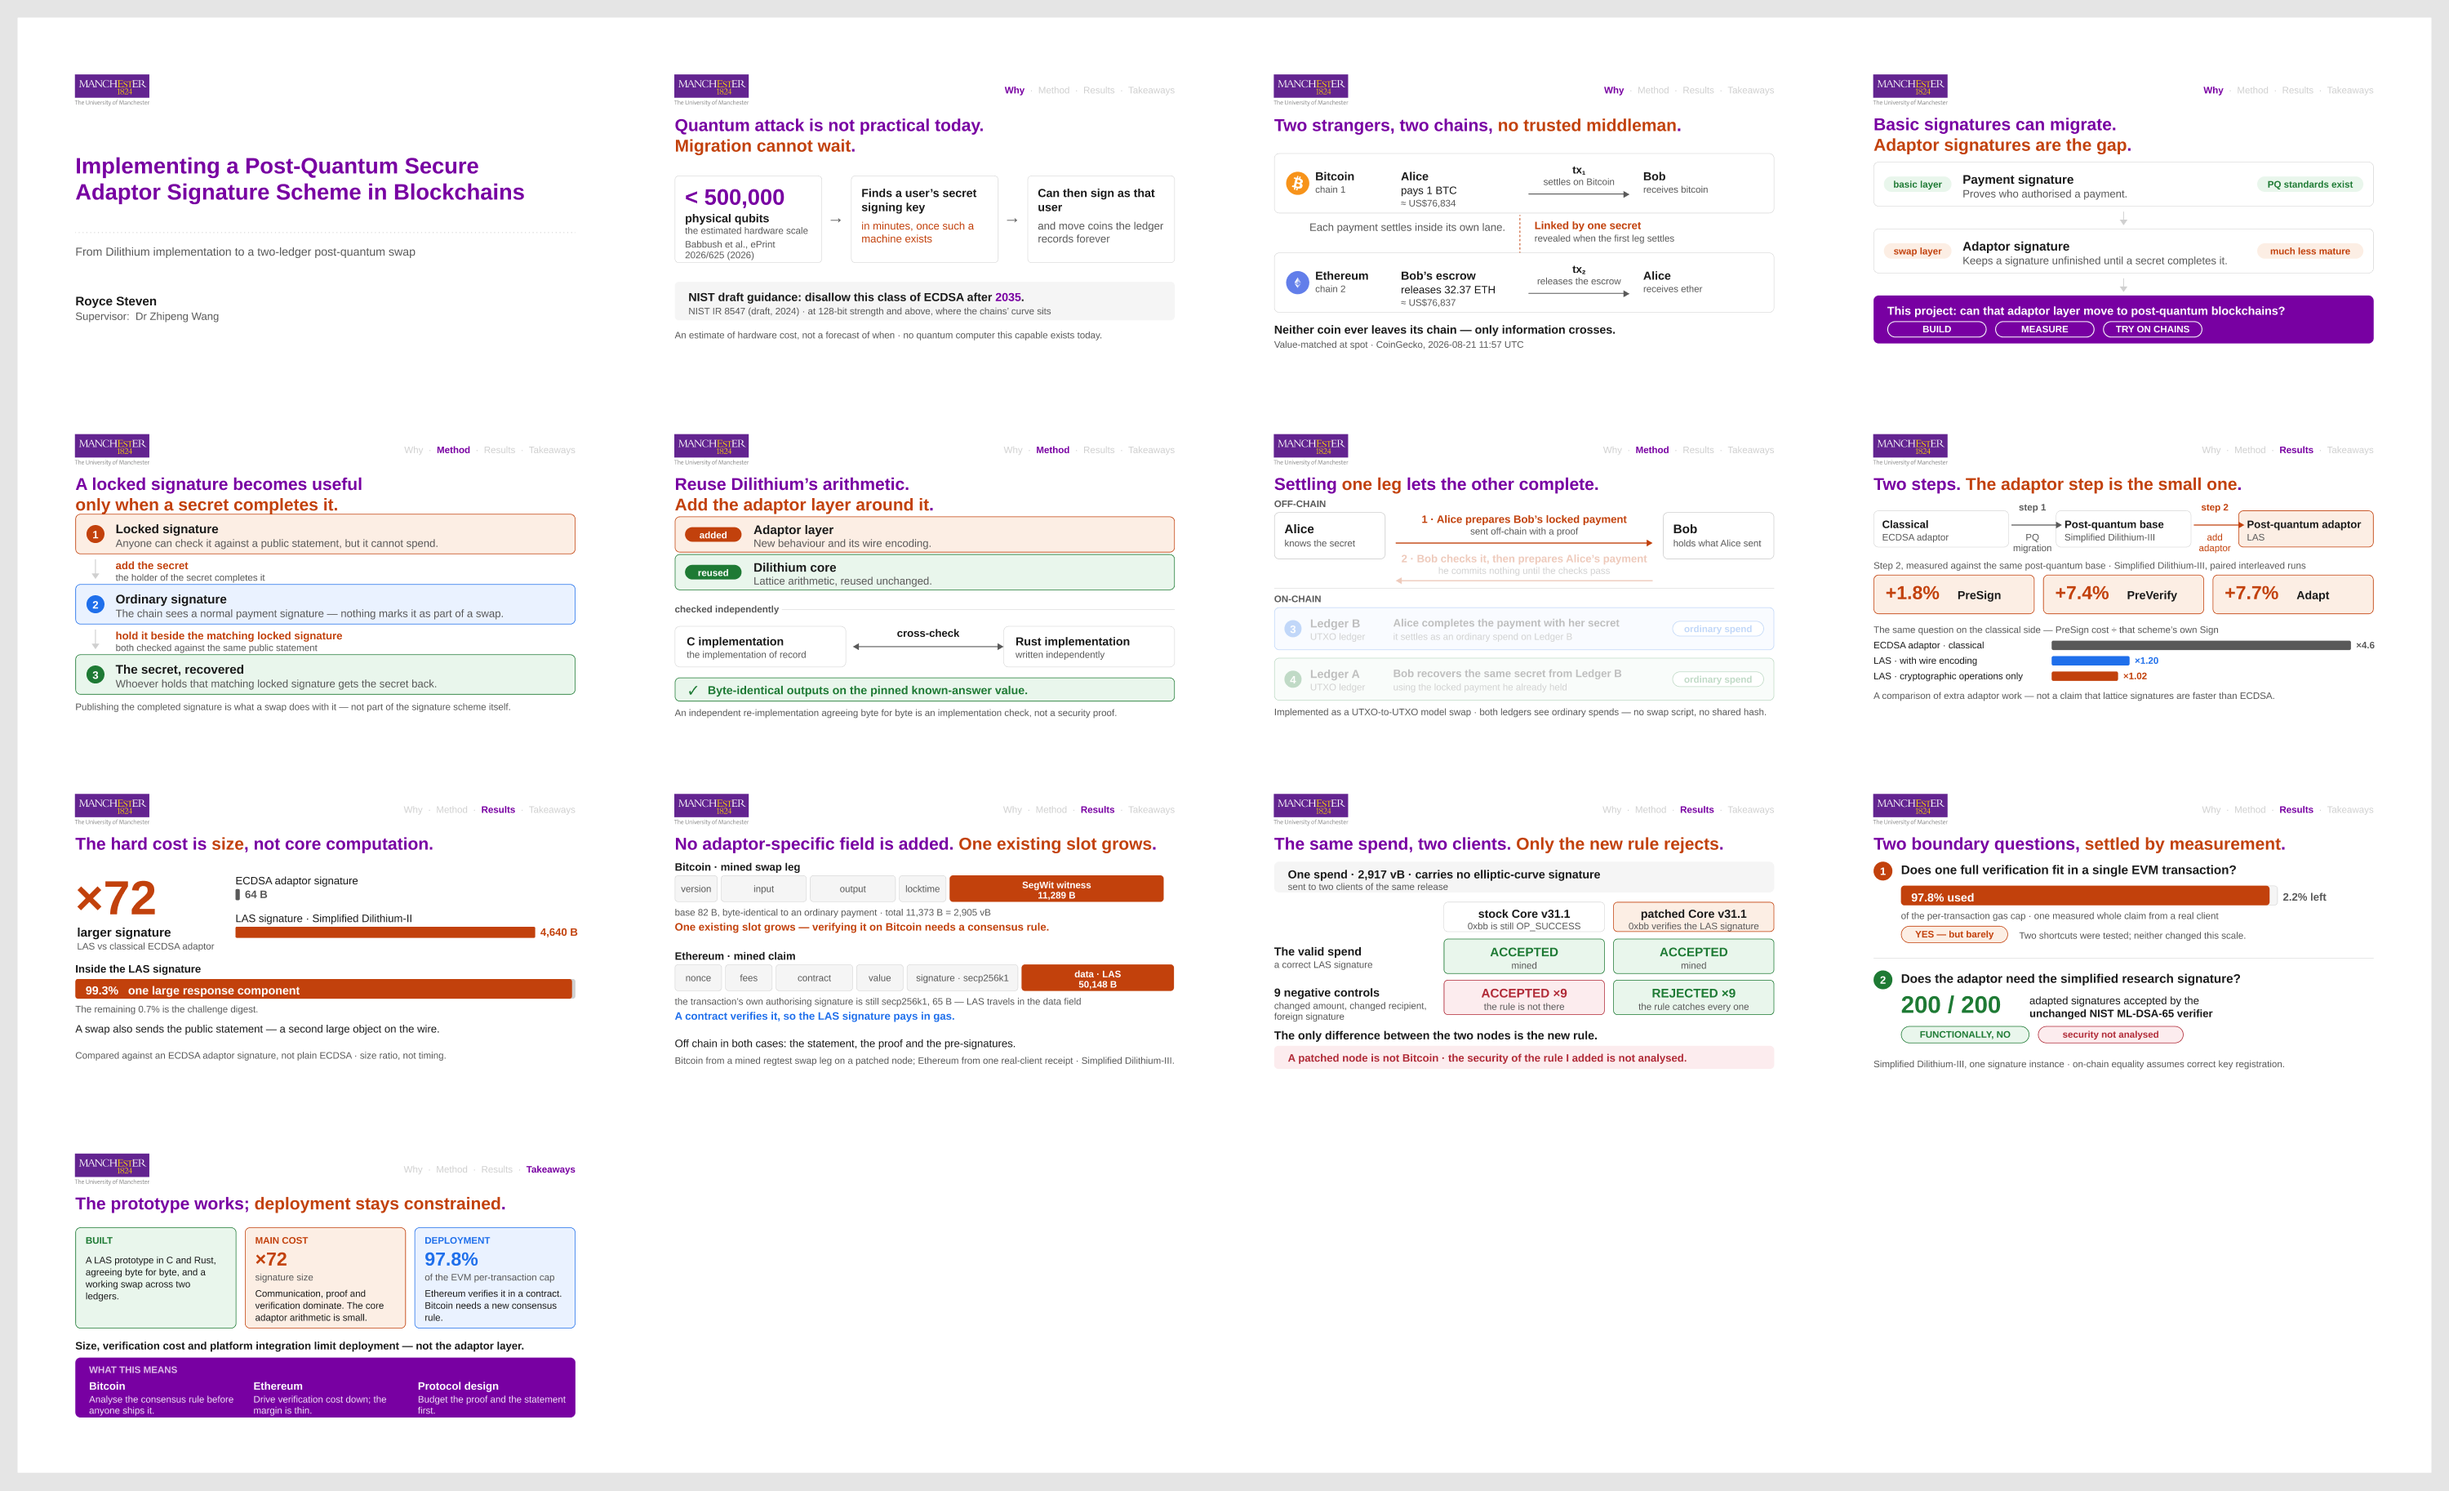
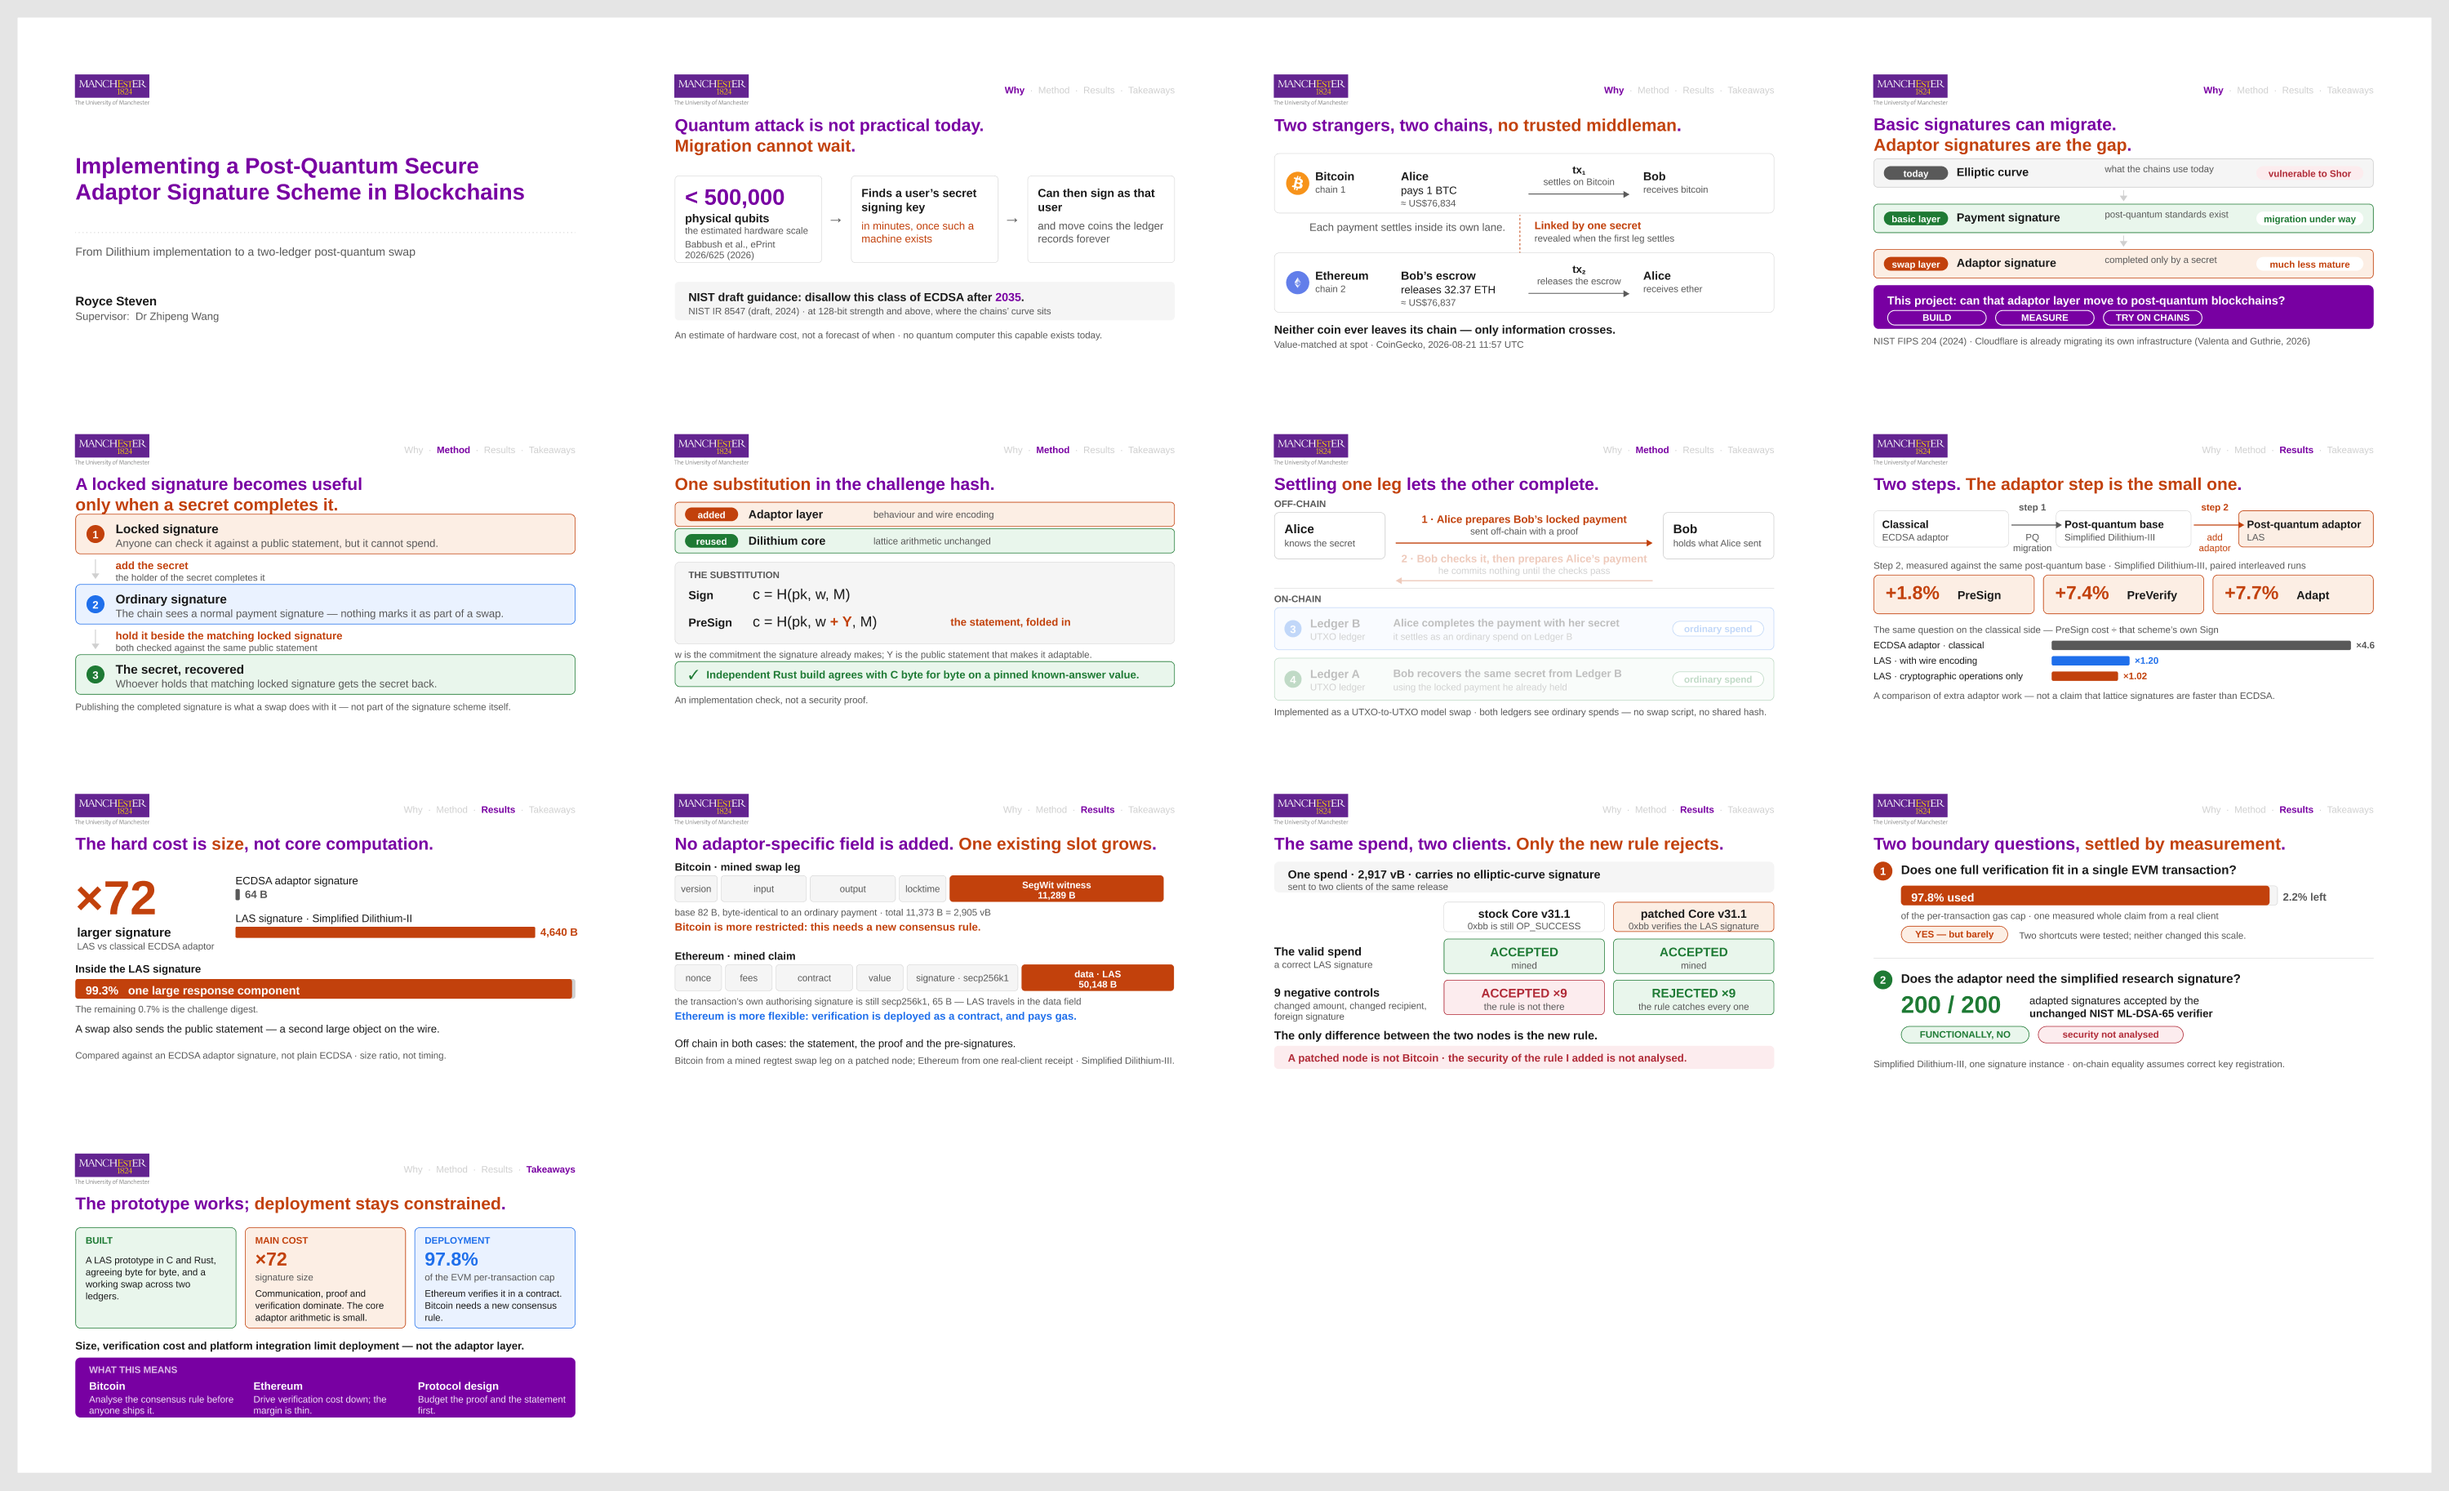
slide 1

diff --git a/report/slides/FIGMA_DECK_SCRIPT.md b/report/slides/FIGMA_DECK_SCRIPT.md
@@ -40,7 +40,7 @@ payment.
 ---
 
 ## 04 · Why: the gap
-**SPOKEN:** So where is the gap? The signature authorising an ordinary payment already has post-quantum standards; the one that makes a swap work does not. Other advanced types are being built; the adaptor case much less so. Hence three questions: can we build it, what does it cost, and can a chain verify it?
+**SPOKEN:** So where is the gap? What the chains sign with today is vulnerable to Shor. Its replacement is already standardised, and migration is under way well beyond blockchains: Cloudflare is already moving its own infrastructure. But the signature that makes a swap work is much less mature. Other advanced types are being built; the adaptor case much less so. Hence: can we build it, what does it cost, and can a chain verify it?
 
 **BACKUP:** Why pay for this rather than a hash-time-locked contract? The hash lock shows — a
 script on both chains, the same hash on both, and larger transactions. An adaptor signature
@@ -60,7 +60,7 @@ primitive of the scheme.
 ---
 
 ## 06 · Method: what I built
-**SPOKEN:** The implementation boundary matters. I did not rewrite lattice arithmetic — I reused Dilithium's and added the adaptor behaviour and its encoding around it. I then built it again in Rust, independently; the two agree byte for byte on a pinned known-answer value. That is an implementation check, not a security proof.
+**SPOKEN:** Here is the method itself. The lattice core is reused; the adaptor layer is what I added. What makes a signature adaptable is a single substitution: the ordinary signature hashes its commitment, while the pre-signature hashes that commitment plus the public statement. That one addition is the whole mechanism. I then built the scheme again in Rust, independently, and the two agree byte for byte on a pinned known-answer value: an implementation check, not a security proof.
 
 **BACKUP:** The pinned value covers packed outputs over four fixed vectors — public key, secret
 key, signature, pre-signature and the adapted signature. Pre-verification and extraction are
@@ -79,7 +79,7 @@ pre-signature, and Bob must then complete Alice's pre-signature with the recover
 ---
 
 ## 08 · Result: cost in time
-**SPOKEN:** Now the cost — and it depends entirely on what it is measured against. Step one, classical to a post-quantum base, is the expensive one, and organisations are already taking it. Step two is what I measured: adding the adaptor layer to that same base, under eight percent per operation. The classical adaptor costs four-point-six times its own signing. So relative to its own base ours is cheaper — though in absolute time a lattice operation still costs more.
+**SPOKEN:** Now the cost, and it depends entirely on what it is measured against. Step one, classical to a post-quantum base, is the expensive one. Step two is what I measured: adding the adaptor layer to that same base, under eight percent per operation. The classical adaptor costs four-point-six times its own signing. So relative to its own base ours is cheaper, though in absolute time a lattice operation still costs more.
 
 **BACKUP:** Overheads are paired and interleaved within each repetition; rejection attempts are
 counted directly, never inferred from a timing ratio. The classical figure is derived from a
@@ -90,7 +90,7 @@ FIPS 204 route measures a smaller signature.
 ---
 
 ## 09 · Result: cost in bytes
-**SPOKEN:** Size is where post-quantum actually hurts. Against a classical adaptor signature the lattice one is about seventy-two times larger — a size ratio, not a timing one. Almost all of it is one response component, and a swap also carries a public statement. So the dominant cost is communication, not adaptor arithmetic.
+**SPOKEN:** Size is where post-quantum actually hurts. Against a classical adaptor signature the lattice one is about seventy-two times larger, and that is a size ratio, not a timing one. So the dominant cost here is communication, not adaptor arithmetic.
 
 **BACKUP:** As objects: 4,640 bytes against a 64-byte compact ECDSA signature, at Simplified
 Dilithium-II. Inside a Bitcoin witness the classical item is DER-encoded and larger, which is
@@ -100,7 +100,7 @@ not plain ECDSA; the level match is engineering, not a proof.
 ---
 
 ## 10 · Result: what lands on chain
-**SPOKEN:** What actually lands on chain? On Bitcoin the fields are those of an ordinary payment; only the witness slot grows, which is why native verification needs a consensus rule. On Ethereum the authorising signature is still elliptic-curve, and the lattice signature rides in contract data, paying in gas. Neither adds an adaptor-specific field.
+**SPOKEN:** What actually lands on chain? On Bitcoin the fields are those of an ordinary payment; only the witness slot grows. Bitcoin is more restricted, because its fields cannot be modified, so verifying this natively needs a consensus rule. Ethereum is more flexible: the lattice signature rides in contract data, verified by a contract at a gas cost. Neither venue adds an adaptor-specific field.
 
 **BACKUP:** The Bitcoin column is read from a mined regtest swap leg and reconstructed against
 BIP144 weight accounting; the Ethereum figure is one real-client receipt under EIP-7623. The
@@ -120,7 +120,7 @@ recover the secret, complete A, mine A.
 ---
 
 ## 12 · Result: two boundary questions
-**SPOKEN:** Two boundary questions, settled by measurement. Does one full verification fit in a single Ethereum transaction? It does — using ninety-seven point eight percent of the per-transaction cap, for one measured instance. Two shortcuts I tested changed neither. Does the adaptor need the simplified research signature? Functionally, no: the unchanged NIST verifier accepted two hundred of two hundred adapted signatures. That route's security is not analysed.
+**SPOKEN:** Two boundary questions, both settled by measurement. Does one full verification fit in a single Ethereum transaction? It does, at ninety-seven point eight percent of the cap, for one measured instance; two shortcuts I tested changed neither. And does the adaptor need the simplified research signature? Functionally, no, though that route's security is not analysed.
 
 **BACKUP:** Shortcut one, statement truncation, failed at extraction every depth tested;
 shortcut two, a succinct post-quantum proof route, was larger and slower than the deployed
@@ -131,7 +131,7 @@ Pre-signing and pre-verification still need adaptor-specific algorithms.
 ---
 
 ## 13 · Takeaways
-**SPOKEN:** Back to the three questions. Can we build it? Yes — in two languages, cross-checked, with a working two-ledger swap. What does it cost? Little in adaptor computation, many more bytes. Can a chain use it? Ethereum verifies it in a contract with almost no margin; Bitcoin needs a new consensus rule. What limits deployment is size, verification cost and platform integration — not the adaptor layer. For Bitcoin: analyse that rule before shipping. For Ethereum: drive verification cost down. For protocol designers: budget the proof and the statement first. Thank you.
+**SPOKEN:** Back to the three questions. Can we build it? Yes, with a working two-ledger swap. What does it cost? Little in adaptor computation, many more bytes. Can a chain use it? Ethereum yes, through a contract with almost no margin; Bitcoin only with a new consensus rule. What limits deployment is size, verification cost and platform integration — not the adaptor layer. For Bitcoin: analyse that rule before shipping. For Ethereum: drive verification cost down. For protocol designers: budget the proof and the statement first. Thank you.
 
 **BACKUP:** The Bitcoin rule costs 374 microseconds per input, about 11.3 times a Schnorr check
 — and that ratio overstates it, because the security levels are not matched. The proof accounts

diff --git a/CLAUDE.md b/CLAUDE.md
@@ -583,18 +583,18 @@ Mechanics that matter:
 
 ## 🔄 Live project state (auto-generated)
 
-*Regenerated 2026-09-07 07:53 by `scripts/update_claude_context.py`, which only reads files and git metadata — it never builds, tests, or benchmarks, and never estimates a number. Anything it could not parse says (not found).*
+*Regenerated 2026-09-07 08:22 by `scripts/update_claude_context.py`, which only reads files and git metadata — it never builds, tests, or benchmarks, and never estimates a number. Anything it could not parse says (not found).*
 
 ### Repository right now
 
-- Branch **`final-report-audit`** · HEAD 889b130 · 2026-09-05 ·  report super final 5/9 3:02 pm
-- Working tree: 33 modified tracked file(s), 41 untracked path(s) · vs `origin/final-report-audit`: 0 ahead, 0 behind
+- Branch **`final-report-audit`** · HEAD e207aab · 2026-09-07 ·  7/9 8:14 am
+- Working tree: 3 modified tracked file(s), 39 untracked path(s) · vs `origin/final-report-audit`: 0 ahead, 0 behind
 - Recent commits:
+  - `e207aab 2026-09-07  7/9 8:14 am`
   - `889b130 2026-09-05  report super final 5/9 3:02 pm`
   - `0e6da21 2026-09-05 Remove accidental benchmark artifacts and restore rubric`
   - `4465a86 2026-09-05 report final 1cd`
   - `24abd32 2026-09-05 report final 1`
-  - `c4064a2 2026-09-04  4/09 7:15 pm`
 
 ### Target parameter set — anchors parsed from source
 
@@ -610,7 +610,7 @@ Mechanics that matter:
 - On-chain gas (EVM): `evidence/onchain/latest` → `20260904_215518` (dir mtime 2026-09-04)
 - Criterion micro-bench: `evidence/criterion/latest` → `20260904_214411` (dir mtime 2026-09-04)
 - las-stark: `evidence/stark/latest` → `latest` (dir mtime 2026-08-25)
-- Report word count: **8833** (`report/latex/word.count`, rubric bound 7,000–9,000; `make -C report/latex wordcount`)
+- Report word count: **8963** (`report/latex/word.count`, rubric bound 7,000–9,000; `make -C report/latex wordcount`)
 
 ### Where the last session stopped
 
